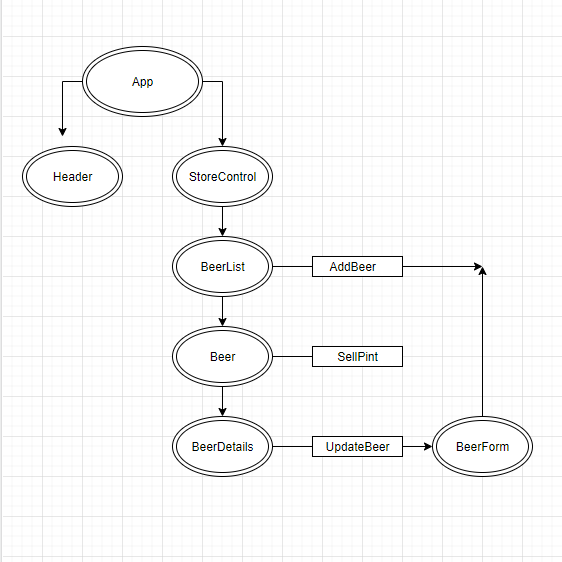
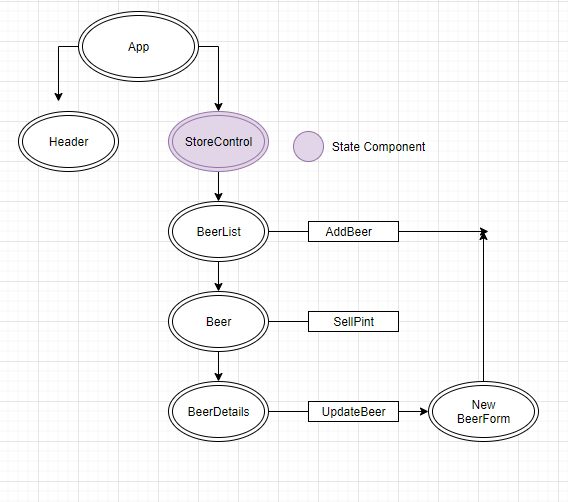
redo componentTree diagram and add all needed component files to match with tree

Changed region(s): [[0.0302, 0.0, 0.968, 0.8964], [0.5142, 0.239, 0.7562, 0.3287]]

diff --git a/src/index.js b/src/index.js
@@ -1,7 +1,7 @@
 import React from 'react';
 import ReactDOM from 'react-dom';
 import './index.css';
-import App from './App';
+import App from './components/App';
 import reportWebVitals from './reportWebVitals';
 
 ReactDOM.render(

diff --git a/src/components/App.js b/src/components/App.js
@@ -1,0 +1,12 @@
+import React from 'react';
+import Header from './Header';
+
+function App(){
+  return(
+    <React.Fragment>
+      <Header/>
+    </React.Fragment>
+  );
+}
+
+export default App;

diff --git a/src/components/Header.js b/src/components/Header.js
@@ -1,0 +1,11 @@
+import React from 'react';
+
+function Header() {
+  return (
+    <React.Fragment>
+
+    </React.Fragment>
+  );
+}
+
+export default Header;
